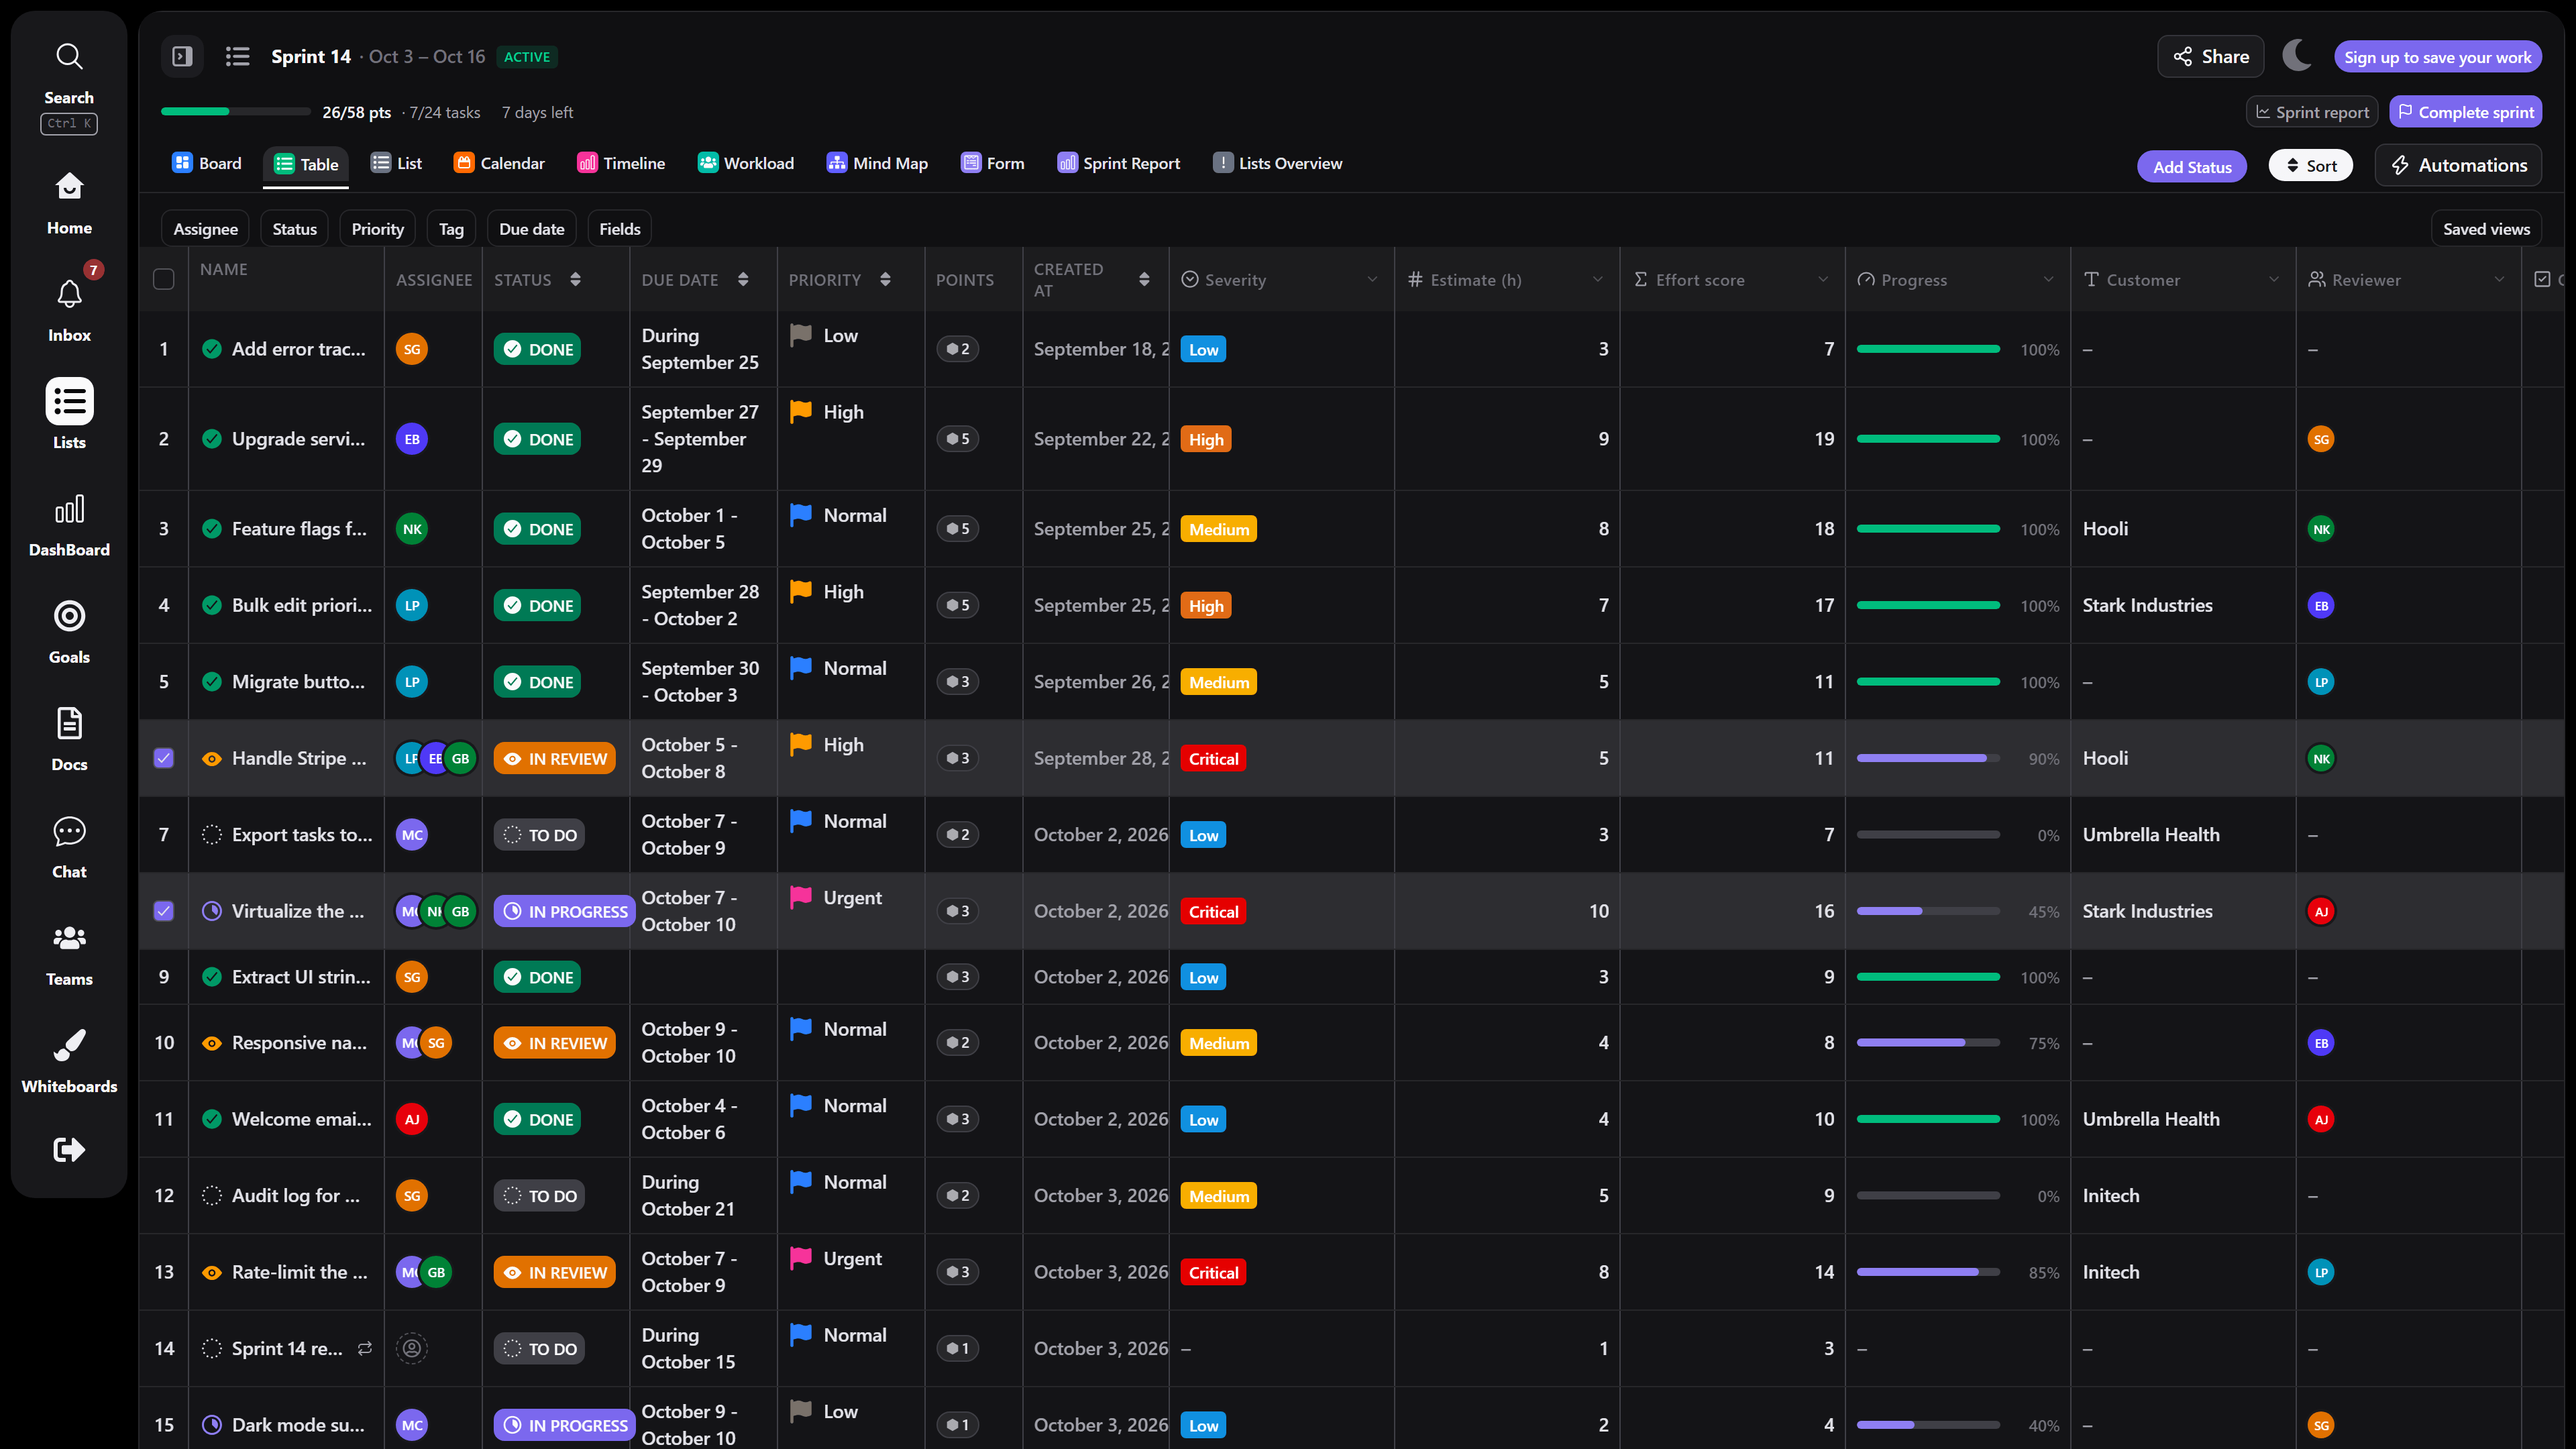
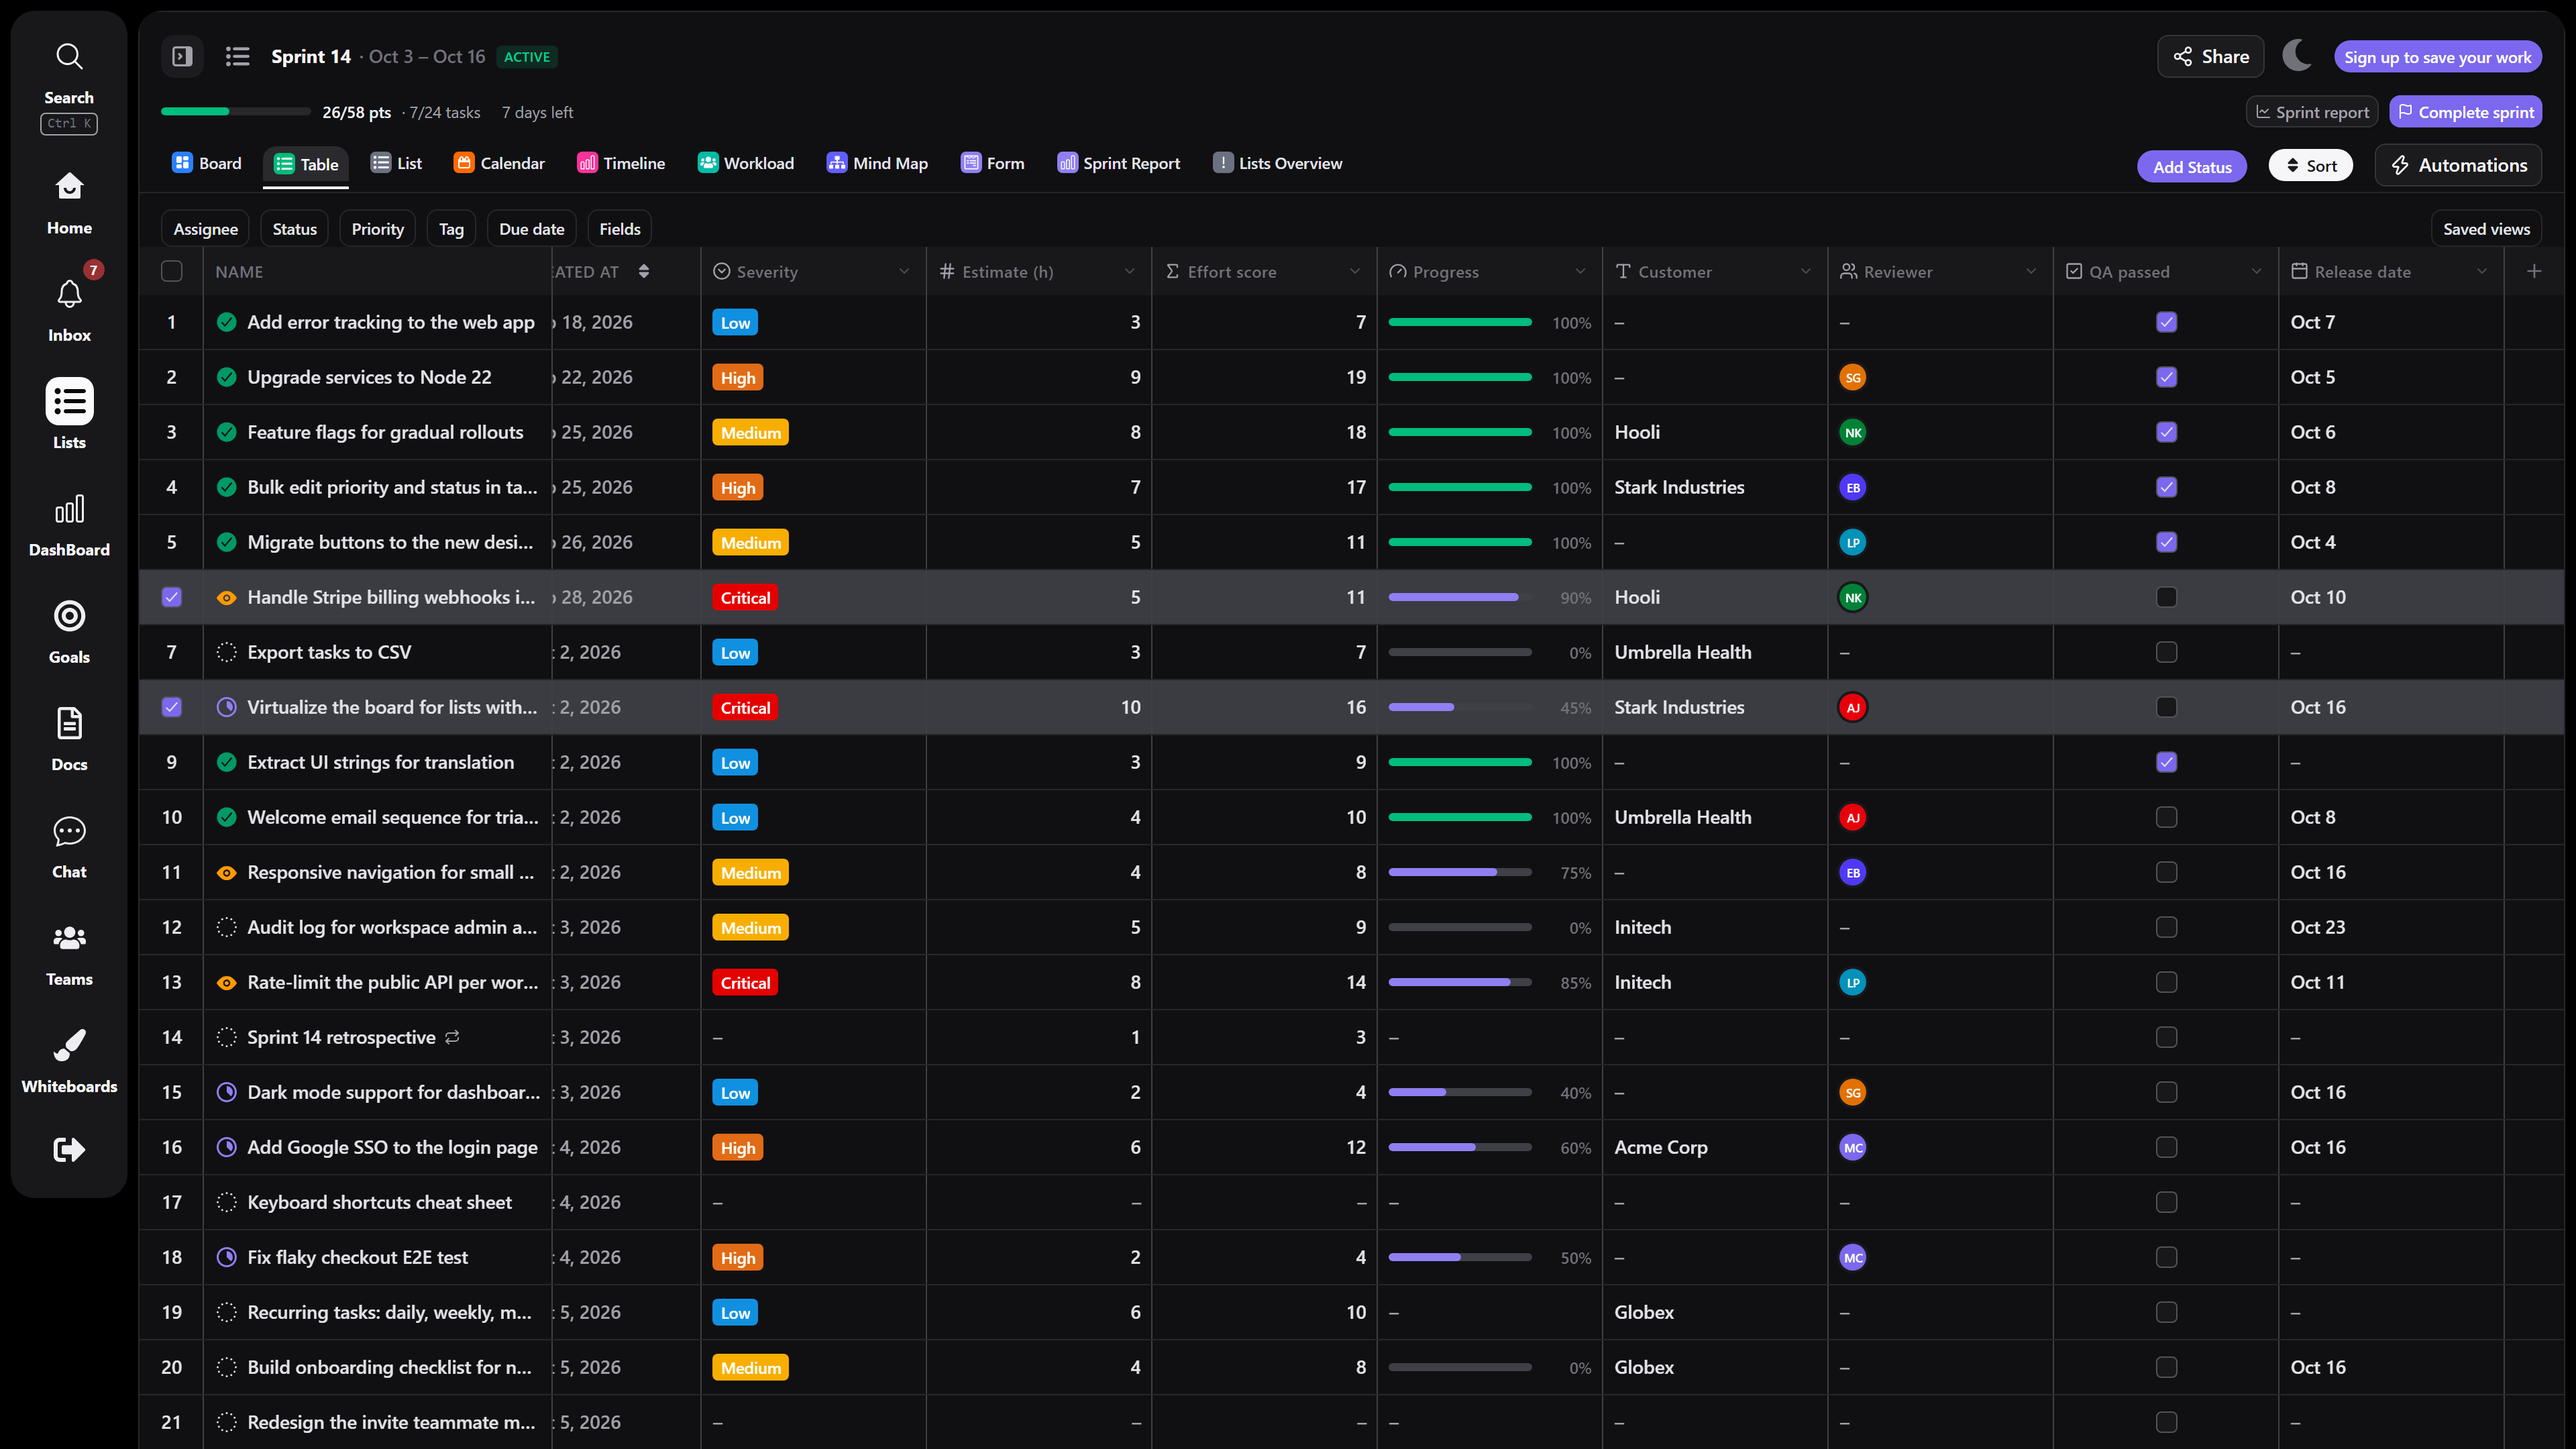
Capture the remaining routes and the fixed Table view
Adds 12 portfolio shots: List, Calendar, My Work, Inbox, Goals, Teams,
Whiteboard, Form builder, Templates, Ctrl+K palette, board swimlanes and
the Automations dialog. Re-takes the Table shot on the fixed grid. The
README now uses the portfolio set for every screen.

diff --git a/README.md b/README.md
@@ -22,16 +22,16 @@ A full-stack, ClickUp-style work management app: spaces, lists and tasks viewed 
     <td align="center"><img src="docs/screenshots/portfolio/06-dashboard.png" alt="Dashboard" /><br><strong>Dashboard</strong>: workload, overdue, burndown, time tracked</td>
   </tr>
   <tr>
-    <td align="center"><img src="docs/screenshots/portfolio/04-table-custom-fields.png" alt="Table view" /><br><strong>Table</strong>: custom fields (dropdown, people, progress, formula) and bulk edit</td>
-    <td align="center"><img src="assets/screenshots/calendar.png" alt="Calendar view" /><br><strong>Calendar</strong>: month and week, drag to reschedule</td>
+    <td align="center"><img src="docs/screenshots/portfolio/04-table-custom-fields.png" alt="Table view" /><br><strong>Table</strong>: custom fields (dropdown, people, progress, formula), pinned name column, bulk edit</td>
+    <td align="center"><img src="docs/screenshots/portfolio/17-calendar-month.png" alt="Calendar view" /><br><strong>Calendar</strong>: month and week, drag to reschedule</td>
   </tr>
   <tr>
-    <td align="center"><img src="assets/screenshots/my-work.png" alt="My Work" /><br><strong>My Work</strong>: overdue, today, upcoming</td>
+    <td align="center"><img src="docs/screenshots/portfolio/18-my-work.png" alt="My Work" /><br><strong>My Work</strong>: overdue, today, upcoming</td>
     <td align="center"><img src="docs/screenshots/portfolio/09-docs-nested.png" alt="Docs" /><br><strong>Docs</strong>: nested pages per space</td>
   </tr>
   <tr>
-    <td align="center"><img src="assets/screenshots/inbox.png" alt="Inbox" /><br><strong>Inbox</strong>: mentions, assignments, status changes</td>
-    <td align="center"><img src="assets/screenshots/teams.png" alt="Teams" /><br><strong>Teams</strong>: members, roles, invite links</td>
+    <td align="center"><img src="docs/screenshots/portfolio/19-inbox.png" alt="Inbox" /><br><strong>Inbox</strong>: mentions, assignments, status changes</td>
+    <td align="center"><img src="docs/screenshots/portfolio/21-teams.png" alt="Teams" /><br><strong>Teams</strong>: members, roles, invite links</td>
   </tr>
   <tr>
     <td align="center"><img src="docs/screenshots/portfolio/05-workload-overload.png" alt="Workload view" /><br><strong>Workload</strong>: points per person per day, overloads in red, drag to reassign</td>
@@ -39,15 +39,27 @@ A full-stack, ClickUp-style work management app: spaces, lists and tasks viewed 
   </tr>
   <tr>
     <td align="center"><img src="docs/screenshots/portfolio/07-sprint-report.png" alt="Sprint report" /><br><strong>Sprints</strong>: points, carry-over, burndown and velocity</td>
-    <td align="center"><img src="assets/screenshots/goals.png" alt="Goals" /><br><strong>Goals</strong>: OKR targets that move as tasks complete</td>
+    <td align="center"><img src="docs/screenshots/portfolio/20-goals.png" alt="Goals" /><br><strong>Goals</strong>: OKR targets that move as tasks complete</td>
   </tr>
   <tr>
     <td align="center"><img src="docs/screenshots/portfolio/08-chat-thread.png" alt="Chat channel" /><br><strong>Chat</strong>: channels per space, @mentions, threads, message to task</td>
-    <td align="center"><img src="assets/screenshots/whiteboard.png" alt="Whiteboard" /><br><strong>Whiteboards</strong>: saved per space, sticky note to task</td>
+    <td align="center"><img src="docs/screenshots/portfolio/22-whiteboard.png" alt="Whiteboard" /><br><strong>Whiteboards</strong>: saved per space, sticky note to task</td>
   </tr>
   <tr>
-    <td align="center"><img src="assets/screenshots/form.png" alt="Form builder" /><br><strong>Forms</strong>: public form links whose submissions create tasks</td>
+    <td align="center"><img src="docs/screenshots/portfolio/23-form-builder.png" alt="Form builder" /><br><strong>Forms</strong>: public form links whose submissions create tasks</td>
     <td align="center"><img src="docs/screenshots/portfolio/11-board-light.png" alt="Light theme" /><br><strong>Light theme</strong>: every screen ships in light and dark</td>
+  </tr>
+  <tr>
+    <td align="center"><img src="docs/screenshots/portfolio/26-board-swimlanes.png" alt="Board swimlanes" /><br><strong>Swimlanes</strong>: board rows per assignee, WIP limits per column</td>
+    <td align="center"><img src="docs/screenshots/portfolio/25-command-palette.png" alt="Command palette" /><br><strong>Ctrl+K</strong>: jump to any task, list or teammate</td>
+  </tr>
+  <tr>
+    <td align="center"><img src="docs/screenshots/portfolio/16-list-view.png" alt="List view" /><br><strong>List</strong>: grouped by status, inline edits</td>
+    <td align="center"><img src="docs/screenshots/portfolio/27-automations.png" alt="Automations" /><br><strong>Automations</strong>: trigger → action rules per list</td>
+  </tr>
+  <tr>
+    <td align="center"><img src="docs/screenshots/portfolio/24-templates.png" alt="Task templates" /><br><strong>Templates</strong>: reusable tasks with subtasks and checklists</td>
+    <td align="center"><img src="docs/screenshots/portfolio/13-timeline-light.png" alt="Timeline in light theme" /><br><strong>Timeline, light theme</strong></td>
   </tr>
 </table>
 

diff --git a/docs/screenshots/portfolio/README.md b/docs/screenshots/portfolio/README.md
@@ -15,7 +15,7 @@ Add `--shots=04,10` to re-take only some of them.
 | `01-board-sprint.png` | Sprint 14 board: custom statuses, sprint points, tags, assignees, and a red WIP limit warning on In Progress (4 / 3). |
 | `02-task-panel.png` | Task panel for "Add Google SSO to the login page": status, dates, points, tags, linked goal, 8 custom fields, AI buttons, rich-text description and activity feed. |
 | `03-timeline-dependencies.png` | Gantt timeline for Sprint 14 with a today line and "blocked by" dependency arrows between tasks. |
-| `04-table-custom-fields.png` | Table view with two rows selected for bulk edit and custom field columns: Severity, Estimate, Effort score (formula), Progress, Customer, Reviewer. |
+| `04-table-custom-fields.png` | Table view scrolled to its 8 custom fields (Severity, Estimate, Effort score formula, Progress, Customer, Reviewer, QA passed, Release date) with the checkbox and name columns pinned, and two rows selected for bulk edit. |
 | `05-workload-overload.png` | Workload by day in points: capacity per person, with Maya Chen overloaded (9 / 8) in red. |
 | `06-dashboard.png` | Dashboard: task, list and workspace counts, workload by status, priorities, overdue, completed this week, time tracked and tasks per assignee. |
 | `07-sprint-report.png` | Sprint 14 report: committed, completed and remaining points, burndown against the ideal line, and velocity across Sprints 11–13. |
@@ -27,3 +27,15 @@ Add `--shots=04,10` to re-take only some of them.
 | `13-timeline-light.png` | The Gantt timeline with dependencies in the light theme. |
 | `14-phone-board.png` | Phone layout: the board scrolls sideways one column at a time. |
 | `15-phone-calendar.png` | Phone layout: compact month calendar with task dots and the day's task list. |
+| `16-list-view.png` | List view grouped by status, with assignees, due dates, priority and points per row. |
+| `17-calendar-month.png` | Calendar month view of Sprint 14, with multi-day tasks spanning their dates. |
+| `18-my-work.png` | My Work: the guest's tasks across every list, split into Overdue, Today and Upcoming. |
+| `19-inbox.png` | Inbox: mentions, comments, assignments and status changes, with unread dots. |
+| `20-goals.png` | Goals: three OKRs with progress rings, owners, target counts and due dates, plus summary stats. |
+| `21-teams.png` | Teams: seven people with per-space roles, assigned task counts and an invite link. |
+| `22-whiteboard.png` | "Q4 Product Brainstorm" whiteboard (Excalidraw): sticky notes moving from Ideas to Next up to Converted to tasks. |
+| `23-form-builder.png` | Form builder for the Bug Tracker's "Report a bug" form: fields mapped to task properties, public share link, live preview. |
+| `24-templates.png` | Task templates page: Bug report, Feature and Meeting notes templates with their subtasks and checklists. |
+| `25-command-palette.png` | Ctrl+K command palette searching tasks for "sso". |
+| `26-board-swimlanes.png` | Board with assignee swimlanes: one row per person with their points, columns still by status. |
+| `27-automations.png` | Automations dialog for Sprint 14: "When status becomes Done, notify assignees". |
